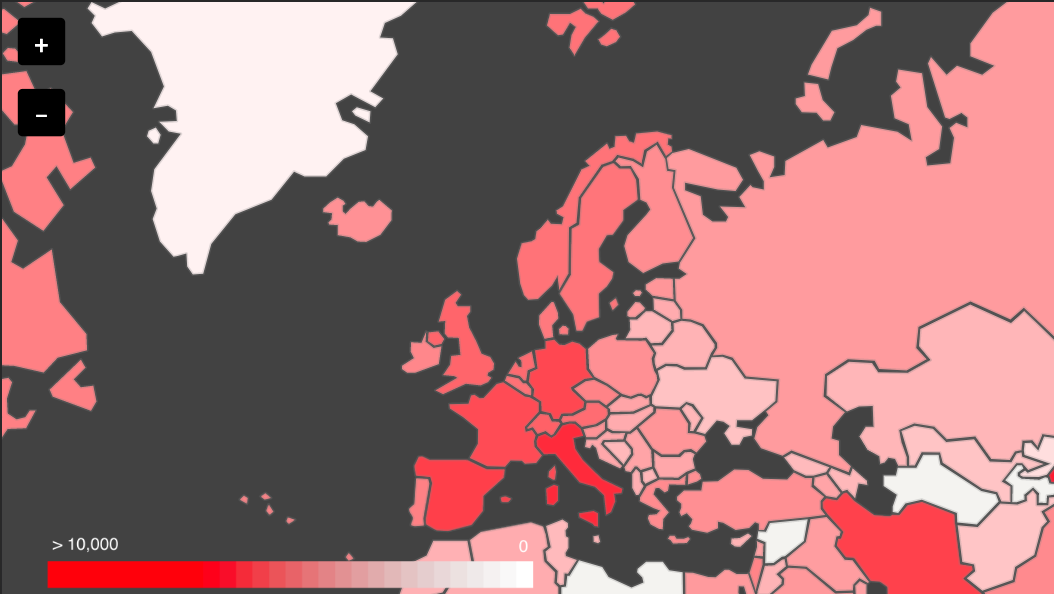
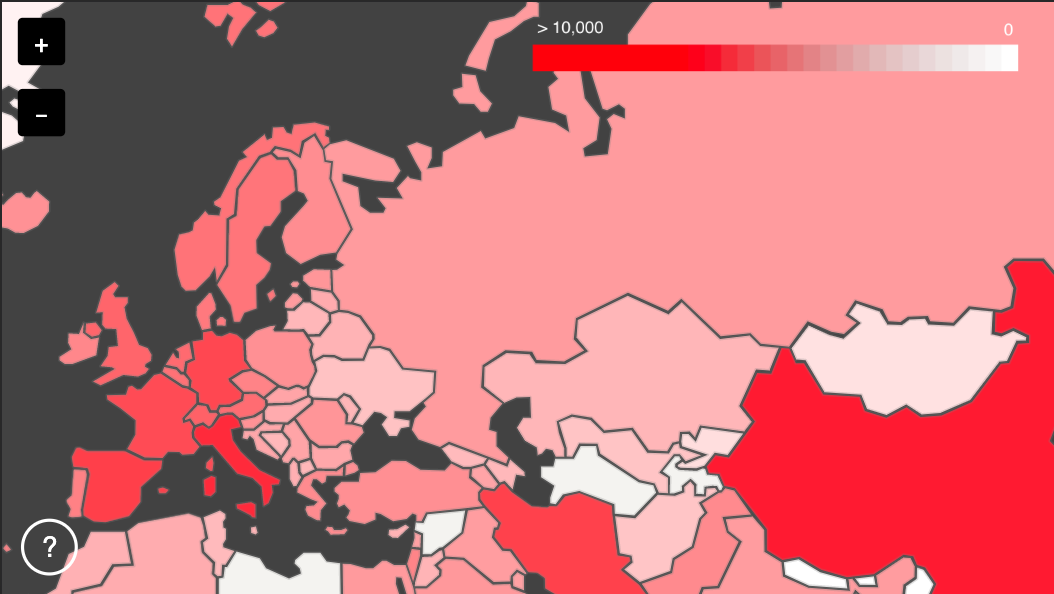
Add info button to map

diff --git a/src/static/elements.css b/src/static/elements.css
@@ -18,11 +18,28 @@
 
 #vmap-legend {
     position: absolute;
-    bottom: 0;
-    left: 0;
+    top: 0;
+    right: 0;
     height: 3em;
     width: auto;
     max-width: 100%;
+}
+
+#vmap-help {
+    position: absolute;
+    bottom: 12px;
+    left: 12px;
+    width: 2em;
+    height: 2em;
+    font-size: large;
+    border-radius: 50%;
+    color: white;
+    text-align: center;
+    line-height: 1.8em;
+    font-family: sans-serif;
+    border: 2px solid white;
+    text-decoration: none;
+    display: inline-block;
 }
 
 footer {

diff --git a/src/index.html b/src/index.html
@@ -59,6 +59,9 @@
             });
         </script>
 
+        <!-- Information button -->
+        <a id="vmap-help" href="about">?</a>
+
         <!-- Load analytics at the end of the page -->
         <script src="templates/analytics.tpl.html" data-include></script>
     </body>

diff --git a/src/about/index.html b/src/about/index.html
@@ -48,6 +48,7 @@
             </script>
         </main>
 
+        <!-- Footer with links -->
         <script src="../templates/footer.tpl.html" data-include data-vars='{"root": ".."}'></script>
 
         <!-- Load analytics at the end of the page -->

diff --git a/src/report/index.html b/src/report/index.html
@@ -65,6 +65,7 @@
             </script>
         </main>
 
+        <!-- Footer with links -->
         <script src="../templates/footer.tpl.html" data-include data-vars='{"root": ".."}'></script>
 
         <!-- Load analytics at the end of the page -->
